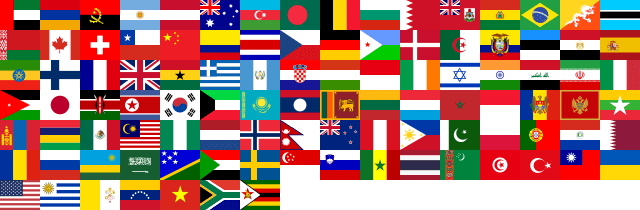
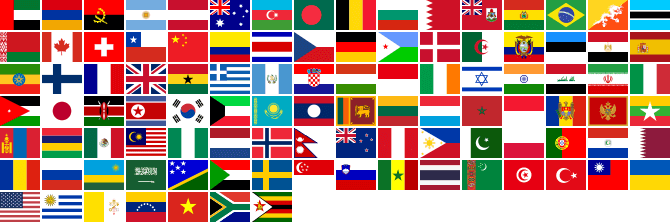
fix(cockpit): a place pack that will not load ends the loading batch failed; flags keep their neighbours out from under the border and out of a scaled flag's edge; a new ride asks again for a sheet that failed

Changed region(s): [[0.0, 0.0, 1.0, 1.0], [0.5625, 0.3429, 0.625, 0.3714], [0.5, 0.1714, 0.5625, 0.2]]

diff --git a/src/data/placeBelow.js b/src/data/placeBelow.js
@@ -11,7 +11,7 @@
  * PURE data module: no Cesium, node-testable. Each pack loads lazily on the
  * first lookup that needs it (divisions on the first land hit, places on the
  * first radius) and is indexed once, and the loading status names them while
- * one is on its way (`placePacksLoading`); a country's division rings are decoded
+ * one is on its way (`placePacksStatus`); a country's division rings are decoded
  * the first time a point falls inside it. A failed load is retried later
  * (see `createRetryableLoader`). No network.
  */
@@ -47,8 +47,9 @@ const PACKS = {
   ),
 };
 
-/** The packs on their way now, for the loading status. */
+/** The packs on their way now, and those whose last load failed. */
 const loadingPacks = new Set();
+const failedPacks = new Set();
 const loadingListeners = new Set();
 
 function notifyLoading() {
@@ -61,13 +62,25 @@ function notifyLoading() {
   }
 }
 
-/** A pack load that the loading status counts while it runs. */
-function reportedLoad(name, load) {
+/**
+ * A pack load that the loading status follows: on its way while it runs,
+ * failed until a later load of it succeeds.
+ * @template T
+ * @param {string} name
+ * @param {() => Promise<T>} load
+ * @returns {() => Promise<T>}
+ */
+export function reportedPlacePackLoad(name, load) {
   return async () => {
     loadingPacks.add(name);
     notifyLoading();
     try {
-      return await load();
+      const result = await load();
+      failedPacks.delete(name);
+      return result;
+    } catch (error) {
+      failedPacks.add(name);
+      throw error;
     } finally {
       loadingPacks.delete(name);
       notifyLoading();
@@ -76,12 +89,13 @@ function reportedLoad(name, load) {
 }
 
 /**
- * Whether a place pack is loading now. The packs load lazily, on the first
- * lookup that needs them, so the loading status says so meanwhile.
- * @returns {boolean}
+ * The place packs' state for the loading status. The packs load lazily, on
+ * the first lookup that needs them, so the status says so meanwhile, and
+ * says when one would not load.
+ * @returns {{loading: boolean, failed: boolean}}
  */
-export function placePacksLoading() {
-  return loadingPacks.size > 0;
+export function placePacksStatus() {
+  return { loading: loadingPacks.size > 0, failed: failedPacks.size > 0 };
 }
 
 /**
@@ -191,7 +205,9 @@ async function readPlaces() {
   }
   return { land, water };
 }
-const loadPlaces = createRetryableLoader(reportedLoad('places', readPlaces));
+const loadPlaces = createRetryableLoader(
+  reportedPlacePackLoad('places', readPlaces),
+);
 
 /** Divisions grouped by country code; rings decoded per country on demand. */
 async function readDivisions() {
@@ -208,7 +224,7 @@ async function readDivisions() {
   return { byCountry, decoded: new Map() };
 }
 const loadDivisions = createRetryableLoader(
-  reportedLoad('divisions', readDivisions),
+  reportedPlacePackLoad('divisions', readDivisions),
 );
 
 /** The first-level division holding a point inside country `code`, or null. */
@@ -243,7 +259,7 @@ async function readPopulatedPlaces() {
   );
 }
 const loadPopulatedPlaces = createRetryableLoader(
-  reportedLoad('populated-places', readPopulatedPlaces),
+  reportedPlacePackLoad('populated-places', readPopulatedPlaces),
 );
 
 /**

diff --git a/src/ui/ownerFlag.js b/src/ui/ownerFlag.js
@@ -62,12 +62,18 @@ export function preloadOwnerFlags({
 export function ownerFlagStyle(code, { widthPx = 20, heightPx = 15 } = {}) {
   const index = SHEET_INDEX.get(code);
   if (index === undefined) return null;
-  const column = index % OWNER_FLAG_SHEET.columns;
-  const row = Math.floor(index / OWNER_FLAG_SHEET.columns);
+  const sheet = OWNER_FLAG_SHEET;
+  const column = index % sheet.columns;
+  const row = Math.floor(index / sheet.columns);
+  // A cell and its gutter, in CSS pixels at this size.
+  const pitchX =
+    (widthPx * (sheet.cellWidthPx + sheet.gutterPx)) / sheet.cellWidthPx;
+  const pitchY =
+    (heightPx * (sheet.cellHeightPx + sheet.gutterPx)) / sheet.cellHeightPx;
   return {
     backgroundImage: `url("${OWNER_FLAG_SHEET_URL}")`,
-    backgroundSize: `${OWNER_FLAG_SHEET.columns * widthPx}px ${OWNER_FLAG_SHEET.rows * heightPx}px`,
-    backgroundPosition: `${-column * widthPx}px ${-row * heightPx}px`,
+    backgroundSize: `${sheet.columns * pitchX}px ${sheet.rows * pitchY}px`,
+    backgroundPosition: `${-column * pitchX}px ${-row * pitchY}px`,
   };
 }
 

diff --git a/src/ui/applicationShell.js b/src/ui/applicationShell.js
@@ -64,25 +64,9 @@ import { useLocationStore } from './stores/location.js';
 import { useCockpitStore } from './stores/cockpit.js';
 import { useGlobeActionsStore } from './stores/globeActions.js';
 import { useRecordingStore } from './stores/recording.js';
-import {
-  onPlacePacksLoadingChange,
-  placePacksLoading,
-} from '../data/placeBelow.js';
-import { LOADING_NAME_KEYS } from './layerNames.js';
+import { onPlacePacksLoadingChange } from '../data/placeBelow.js';
+import { withPlacePacks } from './placePacksLoading.js';
 import { preloadOwnerFlags } from './ownerFlag.js';
-
-/** The place packs, as one more loading entry while they are on their way. */
-const PLACE_PACKS_LOADING = Object.freeze({
-  id: 'place-names',
-  name: LOADING_NAME_KEYS['place-names'],
-  enabled: true,
-  stats: Object.freeze({ loading: true }),
-});
-
-/** The data layers, with the place packs while they load. */
-function withPlacePacks(layers) {
-  return placePacksLoading() ? [...layers, PLACE_PACKS_LOADING] : layers;
-}
 
 /**
  * Central UI orchestrator for the God's Eye View application.

diff --git a/src/ui/placePacksLoading.js b/src/ui/placePacksLoading.js
@@ -1,0 +1,30 @@
+/**
+ * The place packs in the top-centre loading status: they load lazily, on the
+ * Cockpit's first place lookup (`src/data/placeBelow.js`), so while one is on
+ * its way the status names them beside the layers, and a pack that would not
+ * load makes the batch end LOAD FAILED.
+ */
+
+import { placePacksStatus } from '../data/placeBelow.js';
+import { LOADING_NAME_KEYS } from './layerNames.js';
+
+/**
+ * The data layers, with the place packs as one more entry while they load
+ * or after one would not load, so a batch they join ends LOAD FAILED rather
+ * than LOAD COMPLETE.
+ */
+export function withPlacePacks(
+  layers,
+  { loading, failed } = placePacksStatus(),
+) {
+  if (!loading && !failed) return layers;
+  return [
+    ...layers,
+    {
+      id: 'place-names',
+      name: LOADING_NAME_KEYS['place-names'],
+      enabled: true,
+      stats: { loading, error: failed ? 'Place names did not load' : null },
+    },
+  ];
+}

diff --git a/src/ui/views/panels/CockpitOrbital.vue b/src/ui/views/panels/CockpitOrbital.vue
@@ -195,9 +195,14 @@ const mark = computed(() =>
 const flagsReady = ref(false);
 const flagsFailed = ref(false);
 watch(
-  () => (mark.value?.kind === 'flag' ? mark.value.code : null),
-  async (code) => {
-    if (!code || flagsReady.value) return;
+  // Keyed on the satellite too: after a failed load, the next ride asks
+  // again even when its owner is the same country.
+  () =>
+    mark.value?.kind === 'flag'
+      ? `${mark.value.code}:${orbital.value?.noradId ?? ''}`
+      : null,
+  async (key) => {
+    if (!key || flagsReady.value) return;
     const ready = await preloadOwnerFlags();
     flagsReady.value = ready;
     flagsFailed.value = !ready;

diff --git a/src/ui/styles/cockpitOrbital.css b/src/ui/styles/cockpitOrbital.css
@@ -200,6 +200,9 @@
   border: 1px solid var(--orbital-faint);
   border-radius: 1px;
   background-repeat: no-repeat;
+  /* Only the flag's own cell: the sheet's neighbours stay out from under
+     the border. */
+  background-clip: content-box;
 }
 .cockpit-orbital-owner-badge {
   flex: none;

diff --git a/src/ui/ownerFlagSheet.js b/src/ui/ownerFlagSheet.js
@@ -3,6 +3,7 @@
 export const OWNER_FLAG_SHEET = Object.freeze({
   cellWidthPx: 40,
   cellHeightPx: 30,
+  gutterPx: 2,
   columns: 16,
   rows: 7,
   codes: Object.freeze([

diff --git a/src/data/local_data/owner_flags/README.md b/src/data/local_data/owner_flags/README.md
@@ -3,7 +3,8 @@
 `owner_flags.png` is one sheet of every owner country a satellite can be
 marked with (`OWNER_COUNTRY_CODES` in `src/layers/satellites/classes.js`),
 drawn at 40 × 30 px (twice the orbital readout's 20 × 15) in sorted code
-order, 16 to a row. `src/ui/ownerFlag.js` loads it once at startup and draws
+order, 16 to a row, each followed by 2 transparent pixels so a scaled flag
+never smooths into its neighbour. `src/ui/ownerFlag.js` loads it once at startup and draws
 each flag from its cell; the layout is `src/ui/ownerFlagSheet.js`.
 
 **Source:** the 4:3 SVGs of [flag-icons](https://github.com/lipis/flag-icons)
